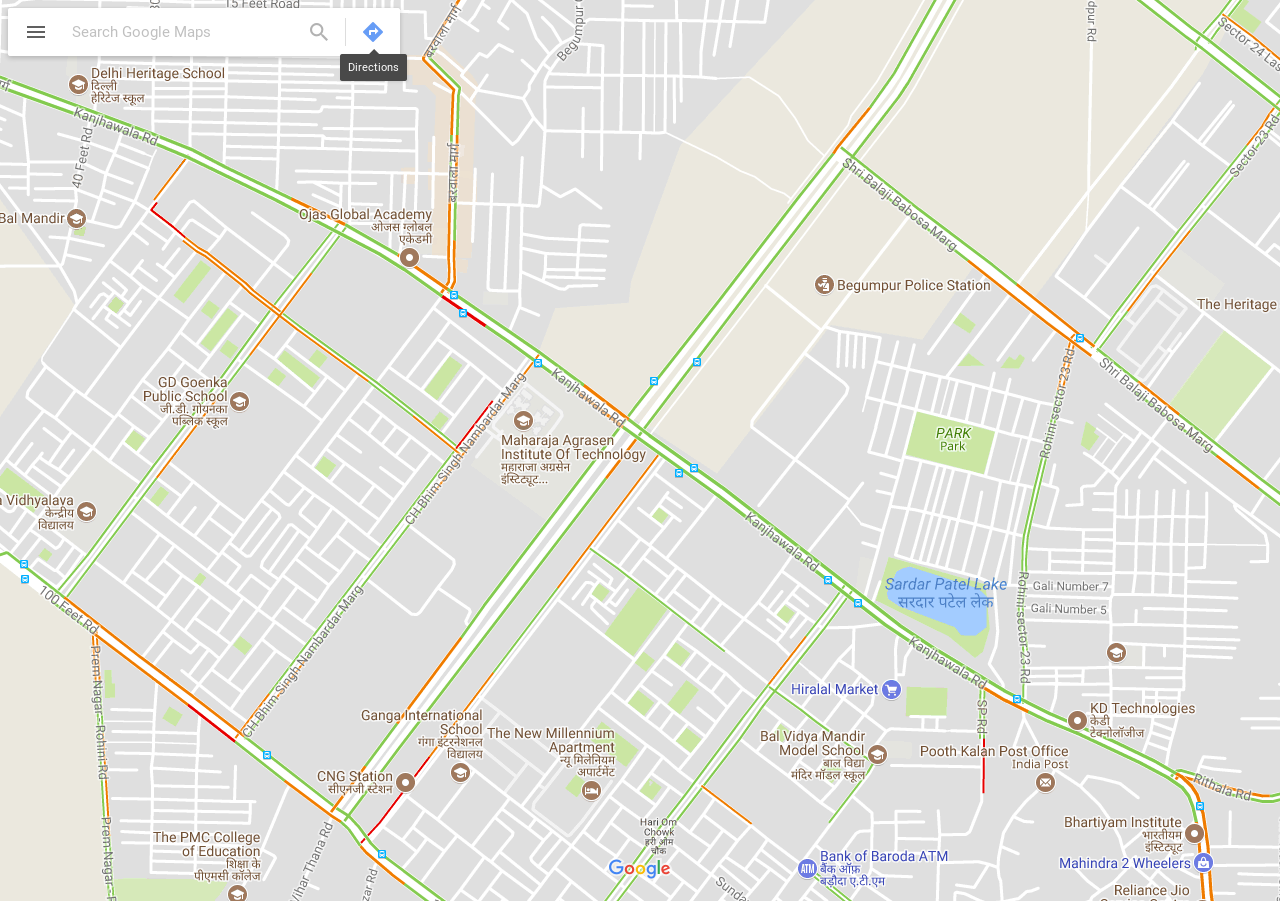
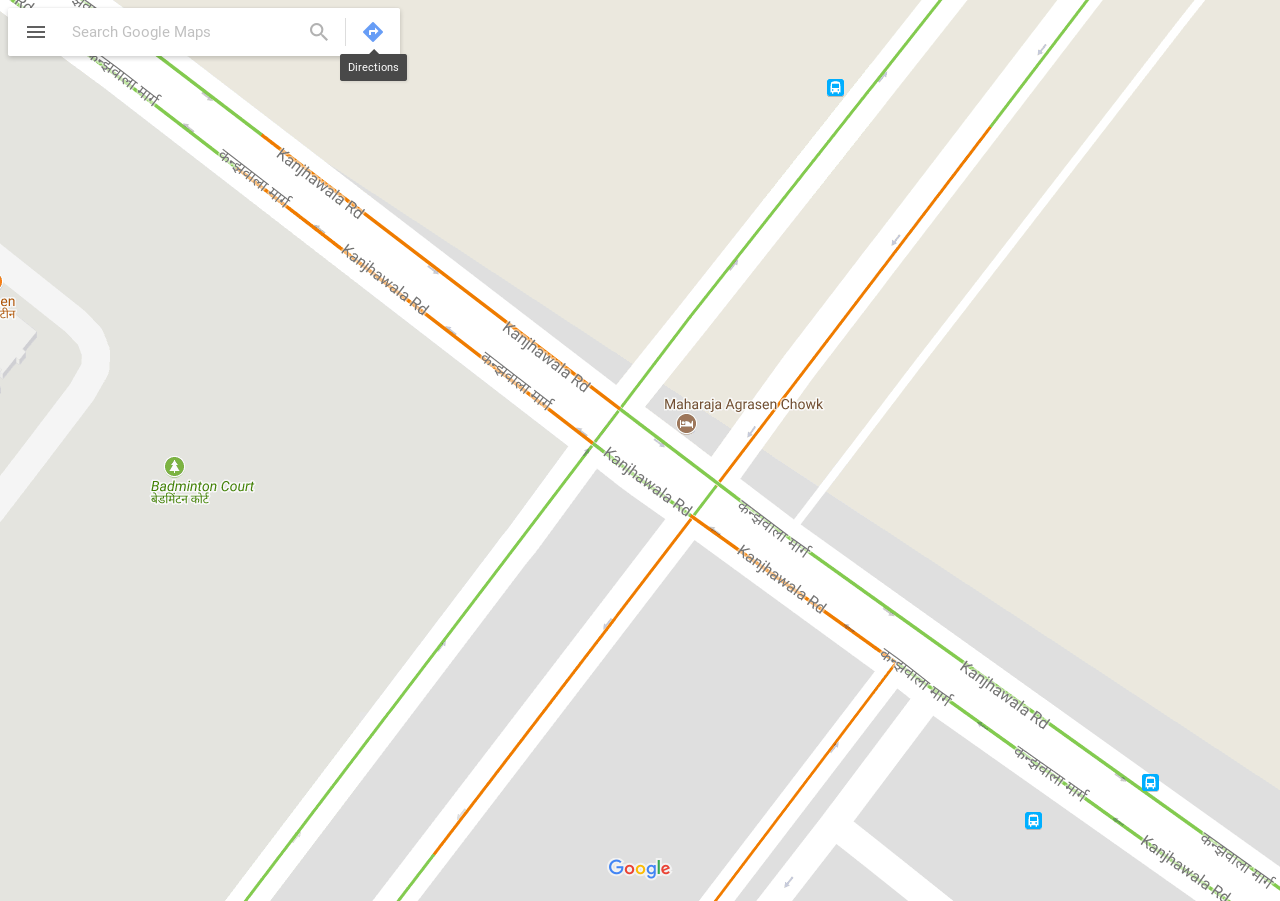
initial commit

diff --git a/main.py b/main.py
@@ -9,6 +9,6 @@ display = Display(visible=0, size=(1920, 1080))
 display.start()
 
 browser = webdriver.Firefox()
-browser.get('https://www.google.co.in/maps/@28.7190605,77.068675,16.75z/data=!5m1!1e1')
+browser.get('https://www.google.co.in/maps/@28.7195088,77.0684701,19.25z/data=!5m1!1e1')
 browser.save_screenshot('screenie.png')
 browser.quit()
